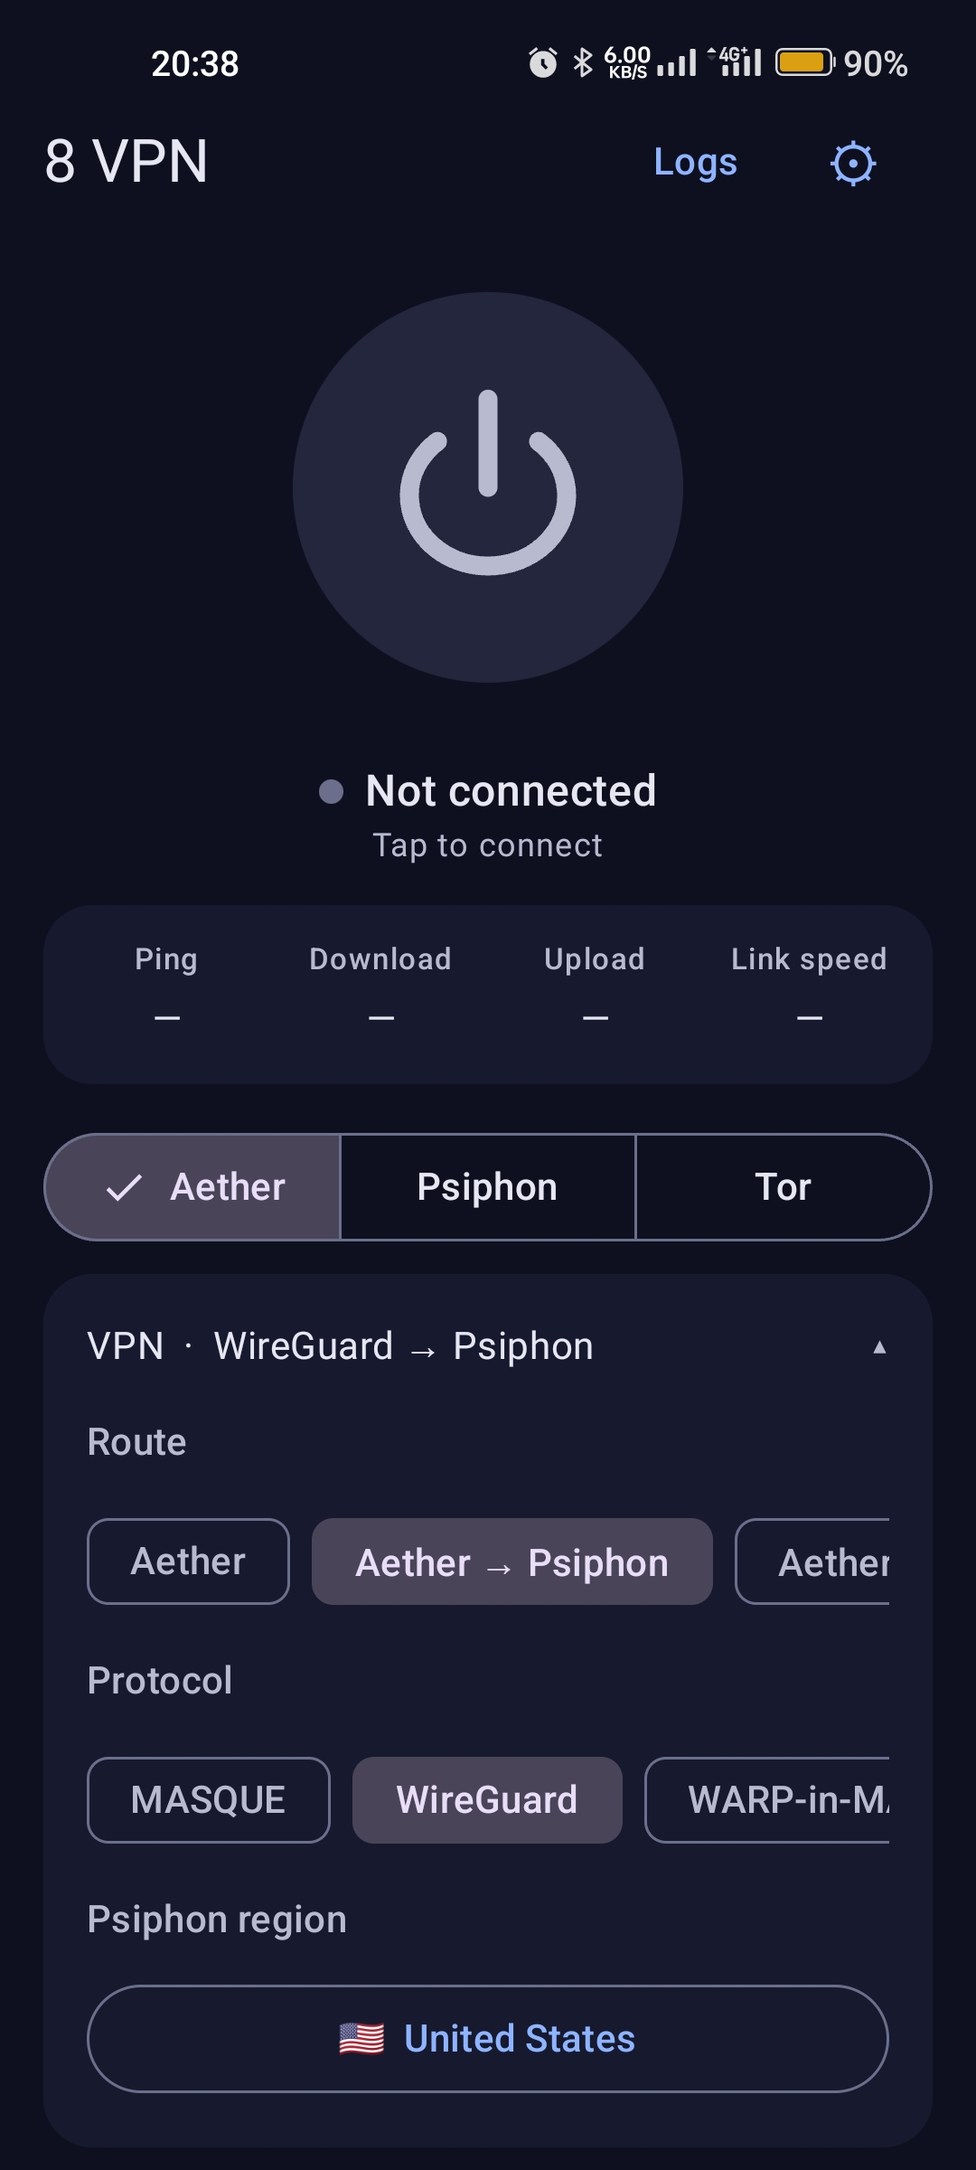
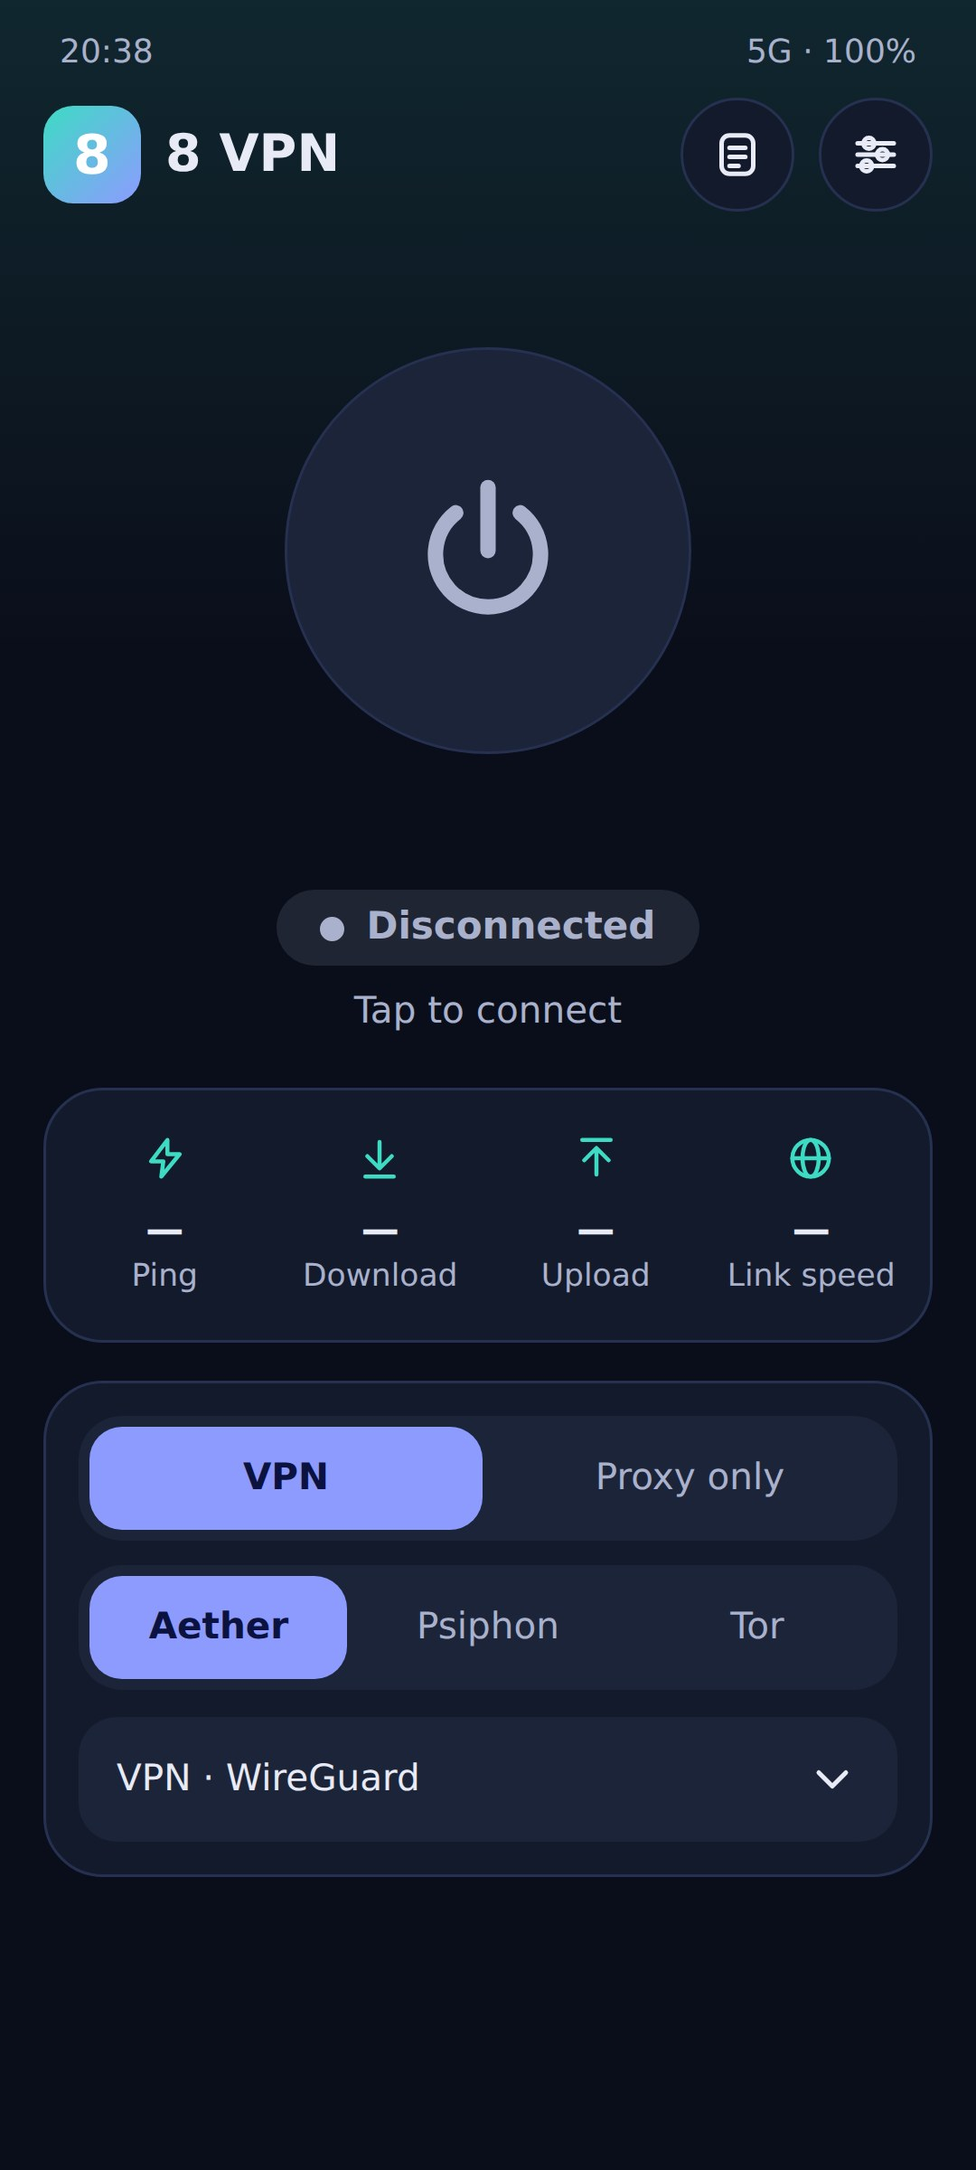
Add files via upload

diff --git a/README.md b/README.md
@@ -6,6 +6,7 @@
 
 [![Telegram](https://img.shields.io/badge/Telegram-@Clubapp8-26A5E4?logo=telegram&logoColor=white)](https://t.me/Clubapp8)
 [![License](https://img.shields.io/badge/license-AGPL--3.0-blue)](LICENSE)
+![Version](https://img.shields.io/badge/version-2.8-8D9BFF)
 ![Platform](https://img.shields.io/badge/platform-Android%208.0%2B-3DDC84?logo=android&logoColor=white)
 ![UI](https://img.shields.io/badge/UI-Jetpack%20Compose-4285F4?logo=jetpackcompose&logoColor=white)
 
@@ -17,10 +18,17 @@
 
 # 8 VPN — English
 
-A lightweight Android VPN client built on the **Aether** core and **hev-socks5-tunnel**.
-Jetpack Compose, Material 3, dark by default, English and Persian (RTL).
+A lightweight Android VPN client built on the **Aether** core, with **sing-box** (libbox) as the default TUN engine and **hev-socks5-tunnel** as a fallback.
+Jetpack Compose, Material 3, dark and light themes, English and Persian (RTL).
 
 📢 Telegram channel: <https://t.me/Clubapp8>
+
+## What's new in 2.8
+
+- **Brand-new interface.** A redesigned home screen with an animated connect button, a one-glance stats card (ping, download, upload, link speed) and a collapsible connection setup panel.
+- **Tidier settings.** Options are grouped into cards (General, Core & protocol, Routing, Psiphon, Tor, Advanced) with rounded inputs and one-tap choices.
+- **Dark and light themes**, dynamic color on Android 12+, and smooth screen transitions.
+- **sing-box core works great.** The `libbox` TUN engine runs without problems and is the default VPN engine; hev-socks5-tunnel stays available as a fallback.
 
 ## Features
 
@@ -28,24 +36,29 @@ Jetpack Compose, Material 3, dark by default, English and Persian (RTL).
 - **Route switcher**: Aether, Psiphon or Tor (Aether protocols: MASQUE, WireGuard, WARP-in-MASQUE, WARP-in-WARP), with Psiphon region selection and Tor bridge options.
 - **Smart reconnect**: reconnects when the core dies, when pings fail, or when the network changes (Wi-Fi ↔ mobile data), then retries with a fresh scan.
 - **Split tunneling**: include only selected apps or exclude them.
-- **Two TUN engines**: hev-socks5-tunnel, with tun2socks (Go + gVisor) as an alternative.
-- **Live info**: ping, download/upload speed, exit IP, logs.
+- **TUN engines**: sing-box (default, gVisor stack) with automatic fallback to hev-socks5-tunnel; the engine can be changed in Settings.
+- **Live info**: ping, download/upload speed, link speed, exit IP, logs.
 - Quick Settings tile, start on boot, dynamic color (Android 12+), dark / light theme.
 - English and Persian UI with full RTL support.
 
 ## Screenshots
 
 <p align="center">
-  <img src="screenshots/01-home.jpg" width="250" alt="Home">
-  <img src="screenshots/02-connected.jpg" width="250" alt="Connected">
-  <img src="screenshots/03-psiphon-region.jpg" width="250" alt="Psiphon region">
+  <img src="screenshots/01-home.jpg" width="190" alt="Home">
+  <img src="screenshots/02-connected.jpg" width="190" alt="Connected">
+  <img src="screenshots/03-psiphon-region.jpg" width="190" alt="Psiphon region">
+  <img src="screenshots/04-settings.jpg" width="190" alt="Settings">
+  <img src="screenshots/05-light-theme.jpg" width="190" alt="Light theme">
 </p>
 
 ## How it works
 
 ```
-apps -> VpnService (TUN) -> hev-socks5-tunnel -> SOCKS5 127.0.0.1:1819 -> Aether -> internet
+apps -> VpnService (TUN) -> sing-box (libbox, gVisor) -> SOCKS5 127.0.0.1:1819 -> Aether / Psiphon / Tor -> internet
 ```
+
+DNS is answered by sing-box (DNS over TCP through the proxy). For Psiphon and Tor, non-DNS UDP is refused at once so apps fall back from QUIC to TCP.
+If the library is missing or fails to start, the app falls back to hev-socks5-tunnel automatically.
 
 Ports: SOCKS5 `1819` (configurable), Tor `1820`, Psiphon `1821`, optional HTTP `1822`.
 
@@ -59,26 +72,28 @@ Ports: SOCKS5 `1819` (configurable), Tor `1820`, Psiphon `1821`, optional HTTP `
 | **Psiphon** (psiphon-tunnel-core) | Censorship circumvention route | <https://github.com/Psiphon-Labs/psiphon-tunnel-core> | GPL-3.0 |
 | **Tor** | Onion routing route | <https://www.torproject.org> | BSD-3-Clause |
 | **Lyrebird** | Tor pluggable transports (obfs4, webtunnel) | <https://gitlab.torproject.org/tpo/anti-censorship/pluggable-transports/lyrebird> | BSD-3-Clause |
-| **hev-socks5-tunnel** | TUN → SOCKS5 engine (default) | <https://github.com/heiher/hev-socks5-tunnel> | MIT |
-| **tun2socks** | Alternative TUN → SOCKS5 engine (Go + gVisor) | <https://github.com/xjasonlyu/tun2socks> | GPL-3.0 |
+| **sing-box** (SagerNet) | Default TUN → SOCKS5 engine (`libbox`, gVisor stack) | <https://github.com/SagerNet/sing-box> | GPL-3.0 (see upstream) |
+| **hev-socks5-tunnel** | Fallback TUN → SOCKS5 engine | <https://github.com/heiher/hev-socks5-tunnel> | MIT |
 
 > Please check each upstream repository for its current license terms.
 
 ## Build with GitHub Actions
 
 1. Upload this project to your repository (`Mrmmd2004/8vpn`).
-2. Open **Actions → Build APKs → Run workflow** (or push to `main`, or push a tag like `v1.0.0` to also create a release).
+2. Open **Actions → Build APKs → Run workflow** (or push to `main`, or push a tag like `v2.8` to also create a release).
 3. Download the `8VPN-apks` artifact:
    `8VPN-armeabi-v7a.apk`, `8VPN-arm64-v8a.apk`, `8VPN-universal.apk` (v7a + v8a + x86_64).
 
-The first build is slow (Rust + BoringSSL + Tor + Go for three ABIs). The workflow also builds `libt2s-jni.so` (tun2socks);
-if that step fails, the build still succeeds and the app uses hev only.
+The workflow has three jobs: **native** (Aether, Psiphon, Lyrebird and hev-socks5-tunnel for three ABIs), **libbox** (the sing-box library as `libbox.aar`, arm + arm64) and **apk** (Gradle release build).
+The first build is slow (Rust + BoringSSL + Tor + Go). On x86_64 devices `libbox` is not included, so the app uses hev-socks5-tunnel there.
 
 **Signing (optional).** Without secrets the APKs are signed with a debug key. For a stable key add these repository secrets:
 `KEYSTORE_BASE64`, `KEYSTORE_PASSWORD`, `KEY_ALIAS`, `KEY_PASSWORD`.
 
-**Versions.** `AETHER_REF` and `HEV_REF` at the top of `.github/workflows/main.yml` pick the upstream versions.
-The default Aether ref is `v2.3.0`. When running the workflow by hand you can pass `aether_repo` (for example your own fork with a changed core) and `aether_ref` (tag, branch or full commit hash). Note that commit `21e7150` is the commit just before pull request #141 and is older than v2.2.0, so it lacks `--gool-peer` and `--gool-classic`.
+**Versions.** `AETHER_REF`, `HEV_REF` and `SINGBOX_REF` at the top of `.github/workflows/main.yml` pick the upstream versions
+(defaults: Aether `v2.3.0`, hev-socks5-tunnel `2.19.0`, sing-box `v1.13.21`).
+When running the workflow by hand you can pass `aether_repo` (for example your own fork with a changed core), `aether_ref` (tag, branch or full commit hash) and `singbox_ref` (sing-box tag).
+For a local Gradle build, put a `libbox.aar` into `app/libs/` first.
 
 ## Notes
 
@@ -96,10 +111,17 @@ The default Aether ref is `v2.3.0`. When running the workflow by hand you can pa
 
 # 8VPN — فارسی
 
-یک کلاینت سبک VPN برای اندروید، ساختهشده روی هستهی **Aether** و **hev-socks5-tunnel**.
-با Jetpack Compose و Material 3، پیشفرض تیره، با رابط فارسی (راستبهچپ) و انگلیسی.
+یک کلاینت سبک VPN برای اندروید، ساختهشده روی هستهی **Aether**، با **sing-box** (کتابخانهی libbox) بهعنوان موتور پیشفرض TUN و **hev-socks5-tunnel** بهعنوان جایگزین.
+با Jetpack Compose و Material 3، تم تیره و روشن، با رابط فارسی (راستبهچپ) و انگلیسی.
 
 📢 کانال تلگرام: <https://t.me/Clubapp8>
+
+## تازههای نسخهی ۲.۸
+
+- **رابط کاملاً جدید.** صفحهی اصلی بازطراحی شد: دکمهی اتصال متحرک، کارت آمار (پینگ، دانلود، آپلود و سرعت لینک) و پنل جمعشوندهی تنظیمات اتصال.
+- **تنظیمات مرتبتر.** گزینهها در کارتهای جدا (عمومی، هسته و پروتکل، مسیریابی، Psiphon، Tor، پیشرفته) دستهبندی شدهاند.
+- **تم تیره و روشن**، رنگ پویا در اندروید ۱۲+ و انتقال نرم بین صفحهها.
+- **هستهی sing-box بدون مشکل کار میکند.** موتور TUN با `libbox` پیشفرض حالت VPN است و hev-socks5-tunnel بهعنوان جایگزین در دسترس میماند.
 
 ## امکانات
 
@@ -107,17 +129,19 @@ The default Aether ref is `v2.3.0`. When running the workflow by hand you can pa
 - **انتخاب مسیر**: Aether، Psiphon یا Tor (پروتکلهای Aether: MASQUE و WireGuard و WARP-in-MASQUE و WARP-in-WARP)، همراه با انتخاب منطقهی Psiphon و گزینههای بریج Tor.
 - **اتصال مجدد هوشمند**: اگر هسته از کار بیفتد، پینگها شکست بخورند یا شبکه عوض شود (وایفای ↔ دیتای موبایل) دوباره وصل میشود و در صورت لزوم با اسکن تازه تلاش میکند.
 - **تونلسازی انتخابی (Split tunneling)**: فقط برنامههای انتخابشده یا همه بهجز آنها.
-- **دو موتور TUN**: hev-socks5-tunnel و بهعنوان جایگزین tun2socks (Go + gVisor).
-- **اطلاعات زنده**: پینگ، سرعت دانلود و آپلود، IP خروجی و لاگها.
+- **موتورهای TUN**: sing-box (پیشفرض، پشتهی gVisor) با بازگشت خودکار به hev-socks5-tunnel؛ موتور را میتوان از تنظیمات عوض کرد.
+- **اطلاعات زنده**: پینگ، سرعت دانلود و آپلود، سرعت لینک، IP خروجی و لاگها.
 - کاشی تنظیمات سریع، اجرا هنگام بوت، رنگ پویا (اندروید ۱۲+)، تم تیره و روشن.
 - رابط فارسی و انگلیسی با پشتیبانی کامل از راستبهچپ.
 
 ## تصاویر برنامه
 
 <p align="center">
-  <img src="screenshots/01-home.jpg" width="250" alt="صفحهی اصلی">
-  <img src="screenshots/02-connected.jpg" width="250" alt="متصل">
-  <img src="screenshots/03-psiphon-region.jpg" width="250" alt="منطقهی Psiphon">
+  <img src="screenshots/01-home.jpg" width="190" alt="صفحهی اصلی">
+  <img src="screenshots/02-connected.jpg" width="190" alt="متصل">
+  <img src="screenshots/03-psiphon-region.jpg" width="190" alt="منطقهی Psiphon">
+  <img src="screenshots/04-settings.jpg" width="190" alt="تنظیمات">
+  <img src="screenshots/05-light-theme.jpg" width="190" alt="تم روشن">
 </p>
 
 ## نحوهی کار
@@ -125,10 +149,13 @@ The default Aether ref is `v2.3.0`. When running the workflow by hand you can pa
 </div>
 
 ```
-apps -> VpnService (TUN) -> hev-socks5-tunnel -> SOCKS5 127.0.0.1:1819 -> Aether -> internet
+apps -> VpnService (TUN) -> sing-box (libbox, gVisor) -> SOCKS5 127.0.0.1:1819 -> Aether / Psiphon / Tor -> internet
 ```
 
 <div dir="rtl" align="right">
+
+DNS را خود sing-box (روی TCP از طریق پروکسی) جواب میدهد. برای Psiphon و Tor، UDP غیر از DNS فوراً رد میشود تا برنامهها از QUIC به TCP برگردند.
+اگر کتابخانه نباشد یا اجرا نشود، برنامه خودکار به hev-socks5-tunnel برمیگردد.
 
 پورتها: SOCKS5 روی `1819` (قابل تغییر)، Tor روی `1820`، Psiphon روی `1821` و HTTP اختیاری روی `1822`.
 
@@ -146,26 +173,28 @@ apps -> VpnService (TUN) -> hev-socks5-tunnel -> SOCKS5 127.0.0.1:1819 -> Aether
 | **Psiphon** (psiphon-tunnel-core) | مسیر عبور از فیلترینگ | <https://github.com/Psiphon-Labs/psiphon-tunnel-core> | GPL-3.0 |
 | **Tor** | مسیر روتینگ پیازی | <https://www.torproject.org> | BSD-3-Clause |
 | **Lyrebird** | پلاگینهای ترنسپورت Tor (obfs4 و webtunnel) | <https://gitlab.torproject.org/tpo/anti-censorship/pluggable-transports/lyrebird> | BSD-3-Clause |
-| **hev-socks5-tunnel** | موتور پیشفرض TUN به SOCKS5 | <https://github.com/heiher/hev-socks5-tunnel> | MIT |
-| **tun2socks** | موتور جایگزین TUN به SOCKS5 (Go + gVisor) | <https://github.com/xjasonlyu/tun2socks> | GPL-3.0 |
+| **sing-box** (SagerNet) | موتور پیشفرض TUN به SOCKS5 (`libbox`، پشتهی gVisor) | <https://github.com/SagerNet/sing-box> | GPL-3.0 (جزئیات در مخزن اصلی) |
+| **hev-socks5-tunnel** | موتور جایگزین TUN به SOCKS5 | <https://github.com/heiher/hev-socks5-tunnel> | MIT |
 
 > مجوز دقیق و فعلی هر پروژه را در مخزن اصلی خودش بررسی کنید.
 
 ## ساخت با GitHub Actions
 
 1. پروژه را در مخزن خودتان (`Mrmmd2004/8vpn`) آپلود کنید.
-2. به **Actions ← Build APKs ← Run workflow** بروید (یا روی `main` پوش کنید، یا یک تگ مثل `v1.0.0` بزنید تا ریلیز هم ساخته شود).
+2. به **Actions ← Build APKs ← Run workflow** بروید (یا روی `main` پوش کنید، یا یک تگ مثل `v2.8` بزنید تا ریلیز هم ساخته شود).
 3. آرتیفکت `8VPN-apks` را دانلود کنید:
    `8VPN-armeabi-v7a.apk`، `8VPN-arm64-v8a.apk` و `8VPN-universal.apk` (شامل v7a و v8a و x86_64).
 
-بیلد اول کند است (Rust و BoringSSL و Tor و Go برای سه معماری). ورکفلو کتابخانهی `libt2s-jni.so` (tun2socks) را هم میسازد؛
-اگر آن مرحله خطا بدهد، بیلد باز هم موفق میشود و برنامه فقط از hev استفاده میکند.
+ورکفلو سه کار دارد: **native** (ساخت Aether و Psiphon و Lyrebird و hev-socks5-tunnel برای سه معماری)، **libbox** (کتابخانهی sing-box بهصورت `libbox.aar` برای arm و arm64) و **apk** (بیلد ریلیز با Gradle).
+بیلد اول کند است (Rust و BoringSSL و Tor و Go). روی دستگاههای x86_64 کتابخانهی `libbox` وجود ندارد و برنامه همانجا از hev-socks5-tunnel استفاده میکند.
 
 **امضا (اختیاری).** بدون سکرت، APKها با کلید دیباگ امضا میشوند. برای کلید ثابت این سکرتها را به مخزن اضافه کنید:
 `KEYSTORE_BASE64` و `KEYSTORE_PASSWORD` و `KEY_ALIAS` و `KEY_PASSWORD`.
 
-**نسخهها.** مقادیر `AETHER_REF` و `HEV_REF` بالای فایل `.github/workflows/main.yml` نسخهی پروژههای بالادستی را مشخص میکنند.
-مقدار پیشفرض Aether همان `v2.3.0` است. هنگام اجرای دستی ورکفلو میتوانید `aether_repo` (مثلاً فورک خودتان با هستهی تغییردادهشده) و `aether_ref` (تگ، برنچ یا هش کامل کامیت) را بدهید. توجه: کامیت `21e7150` درست قبل از pull request شمارهی ۱۴۱ است و از v2.2.0 قدیمیتر است، پس `--gool-peer` و `--gool-classic` را ندارد.
+**نسخهها.** مقادیر `AETHER_REF` و `HEV_REF` و `SINGBOX_REF` بالای فایل `.github/workflows/main.yml` نسخهی پروژههای بالادستی را مشخص میکنند
+(پیشفرضها: Aether برابر `v2.3.0`، hev-socks5-tunnel برابر `2.19.0` و sing-box برابر `v1.13.21`).
+هنگام اجرای دستی ورکفلو میتوانید `aether_repo` (مثلاً فورک خودتان با هستهی تغییردادهشده)، `aether_ref` (تگ، برنچ یا هش کامل کامیت) و `singbox_ref` (تگ sing-box) را بدهید.
+برای بیلد محلی با Gradle، اول یک فایل `libbox.aar` را در `app/libs/` بگذارید.
 
 ## نکتهها
 
@@ -174,25 +203,3 @@ apps -> VpnService (TUN) -> hev-socks5-tunnel -> SOCKS5 127.0.0.1:1819 -> Aether
 - فهرست مناطق Psiphon ثابت است و مجموعهی واقعی به سرورهای Psiphon بستگی دارد.
 
 </div>
-
----
-
-## sing-box TUN engine
-
-VPN mode now uses **sing-box** (the `libbox` library) as the default TUN engine:
-`apps -> TUN -> sing-box (gVisor stack) -> SOCKS5 127.0.0.1:<port> -> Aether / Psiphon / Tor`.
-DNS is answered by sing-box (DNS over TCP through the proxy), and for Psiphon and Tor non-DNS UDP is refused
-at once so apps fall back from QUIC to TCP. If the library is missing or fails to start, the app falls back to
-hev-socks5-tunnel automatically. The engine can be changed in Settings.
-
-`libbox.aar` is built by the `libbox` job of `.github/workflows/main.yml` (sing-box `v1.13.21`, tag
-`with_gvisor` + `with_clash_api` and a few small ones, arm + arm64) and placed in `app/libs/`. Use the `singbox_ref` input to build another sing-box tag.
-For a local Gradle build, put a `libbox.aar` into `app/libs/` first.
-
-## موتور TUN با sing-box
-
-حالت VPN اکنون بهصورت پیشفرض از **sing-box** (کتابخانه `libbox`) استفاده میکند:
-`برنامهها -> TUN -> sing-box -> SOCKS5 روی 127.0.0.1 -> Aether / Psiphon / Tor`.
-DNS را خود sing-box (روی TCP از طریق پروکسی) جواب میدهد و برای Psiphon و Tor، UDP غیر از DNS فوراً رد میشود
-تا برنامهها از QUIC به TCP برگردند. اگر کتابخانه نباشد یا اجرا نشود، برنامه خودکار به hev برمیگردد.
-موتور را میتوان از تنظیمات عوض کرد. فایل `libbox.aar` را مرحلهی `libbox` در ورکفلو میسازد.
